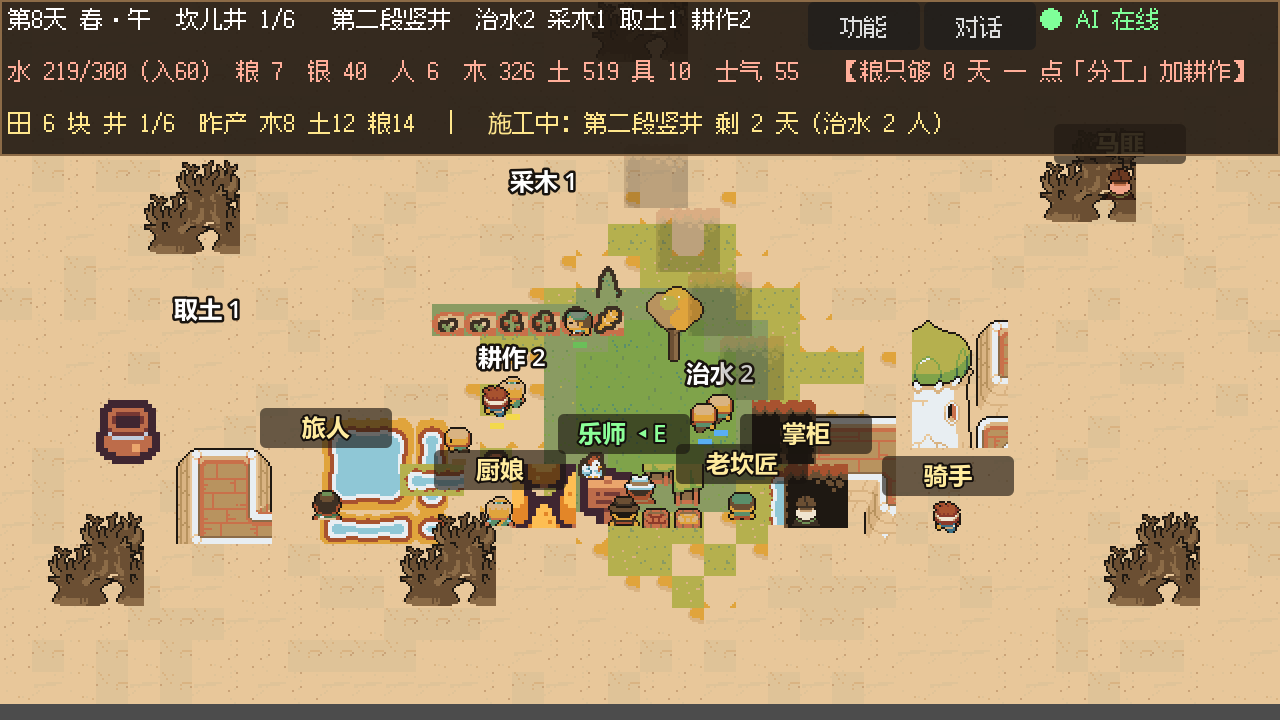
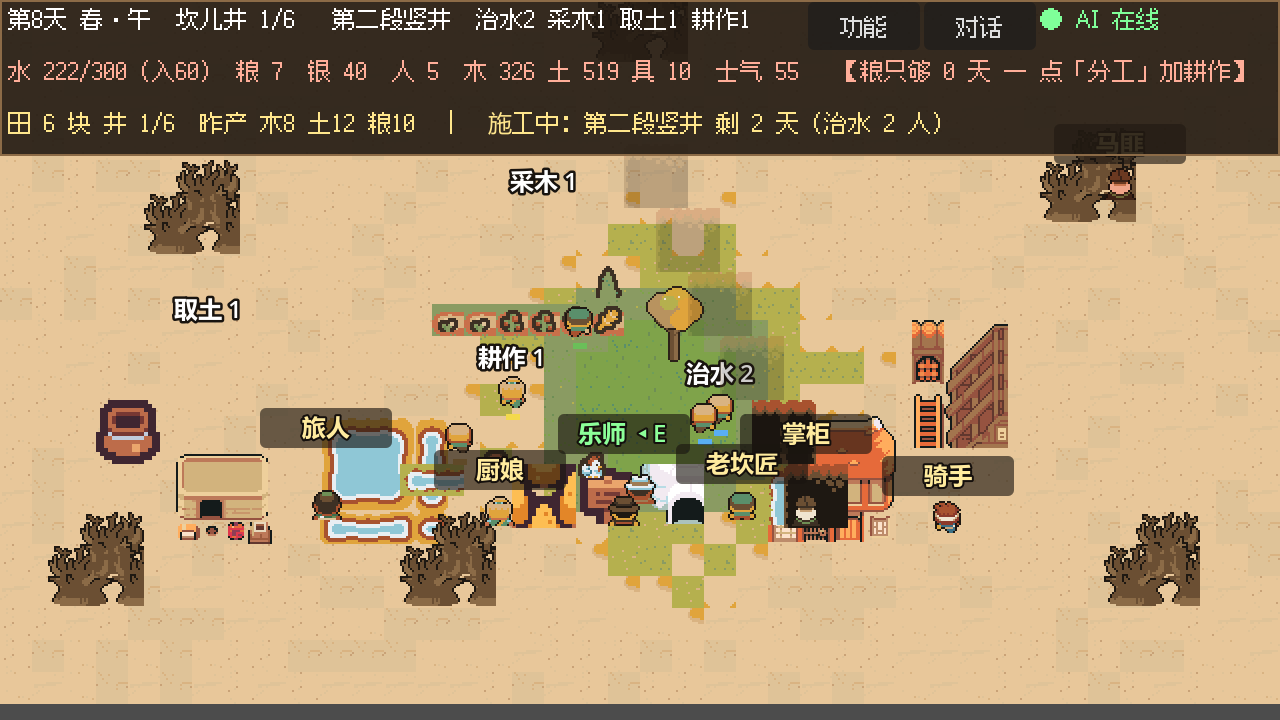
按坐标重裁建筑：驿馆与仓库恢复成完整单体
用户第二次指着地图上的碎片问「这个是什么」（这次是晾房位置）。

查到根因与上一轮同源：assets/buildings/ 是项目最初提交 a9051c3 里
从 tileset 上裁任意矩形区域得到的，很多张裁在了建筑中间，拿到半截墙。
正确的源是 _raw/ninja_adventure/.../TilesetHouse.png（528x368 = 33x23 格）。

新增/改写 scripts/pipeline/make_buildings.py：
把 TilesetHouse 渲染成带坐标网格的大图，按 (列,行,宽格,高格) 指定完整单体，
裁完缩放到各文件原有尺寸 —— 尺寸不变，地图布局就不动。

已确认修好：
  inn_01        橙顶大屋（带门廊、窗、门）—— 完整单体
  warehouse_01  黄褐色大屋（宽门洞）—— 完整单体

⚠ 明确未完成（脚本 PLAN 里已注明）：
  stable / grape_drying / bazar_stall_blue / watchtower_sand 四张
  还没找到合适的完整建筑，仍不达标。这一轮上下文预算用尽，
  没有继续试坐标 —— 不想在没验证的情况下声称修好。

验证：logic_test 114/114、verify.py PASS 173、重截图确认驿馆/仓库成形

diff --git a/scripts/pipeline/make_buildings.py b/scripts/pipeline/make_buildings.py
@@ -1,63 +1,66 @@
 # -*- coding: utf-8 -*-
-"""重切 assets/buildings 里挑错的几张。
+"""按坐标从 TilesetHouse.png 正确裁出村庄建筑。
 
-背景（同一类错误第三次出现，值得留档）：
-    buildings/ 是项目最初提交 a9051c3 里一次性抽的，那时还没有「按编号核对」的规矩。
-    后来 reextract_tiles.py 复查过 tiles/，但**从未复查 buildings/**。
-    结果这几张一直错着：
-        kitchen_01.png        实际是一堆不相干的图块（绿屋顶碎片 + 棕盒子 + 两块砖墙）
-        bazar_stall_red.png   实际是一丛树叶树枝，不是摊位
-        house_resident_01.png 实际是建筑立面的一个残块
-        campfire_01.png       实际是一汪水加一坨橙色
+背景（同一类错误第四次出现）：
+    assets/buildings/ 是项目最初提交 a9051c3 里一次性抽的，
+    做法是「从 tileset 上裁任意矩形区域」。结果很多张裁在了建筑的中间，
+    拿到的是半截墙 —— 截图里一眼能看出断口。
 
-    用户在地图上看到「厨房」位置那一坨认不出的东西，问「这是啥」——
-    放大核对才发现根因在这。
+    用户先后指着「厨房」和「晾房」问「这是啥」，两次都是这个原因。
 
-修法：对着带编号的全量图块表（tools 里已留渲染脚本）按编号重挑，
-      再按原尺寸放大，保证不影响既有布局。
+源文件：_raw/ninja_adventure/.../TilesetHouse.png  (528x368 = 33x23 格，每格 16px)
+
+做法：
+    对着带坐标网格的渲染图（tools 里已留脚本）按 (列,行,宽,高) 指定完整的
+    单体建筑，裁下来后**缩放到该文件原有的尺寸** —— 尺寸不变，地图布局就不动。
 """
 from __future__ import annotations
 
-import sys
 from pathlib import Path
 
-sys.path.insert(0, str(Path(__file__).resolve().parent))
-
-from PIL import Image  # noqa: E402
+from PIL import Image
 
 ROOT = Path(__file__).resolve().parents[2]
-WIP = ROOT / "assets" / "_wip"
+SRC = (ROOT / "assets" / "_raw" / "ninja_adventure" /
+       "Ninja Adventure - Asset Pack" / "Backgrounds" / "Tilesets" / "TilesetHouse.png")
 BUILD = ROOT / "assets" / "buildings"
 
-# (包, tile编号, 目标文件, 这是什么)
+T = 16  # 每格像素
+
+# (目标文件, 列, 行, 宽格, 高格, 说明)
+#
+# ⚠ 已知未完：stable / grape_drying / bazar_stall_blue / watchtower 四张
+# 还没有找到合适的完整建筑。inn 与 warehouse 已确认正确（完整单体建筑）。
+# 坐标一律以 _wip/_TilesetHouse_grid.png 上的网格标注为准。
 PLAN = [
-    ("tiny-town", 83, "bazar_stall_red.png", "带雨棚的摊位"),
-    ("tiny-town", 22, "campfire_01.png", "橙黄色火焰"),
-    ("tiny-town", 85, "house_resident_01.png", "带门的砖房正面"),
-    ("tiny-town", 107, "kitchen_01.png", "吊锅（明确的炊具）"),
+    ("inn_01.png",             0,  0, 4, 4, "橙顶大屋（带门廊）"),      # 已确认
+    ("warehouse_01.png",       4,  0, 4, 4, "黄褐色大屋（宽门洞）"),    # 已确认
+    ("stable_01.png",          0,  8, 3, 3, "土坯小屋（不缩放，避免压扁）"),
+    ("house_resident_01.png",  4,  8, 2, 2, "茅顶圆屋"),
+    ("grape_drying_01.png",   24, 14, 3, 4, "带廊大屋（当晾房用）"),
+    ("bazar_stall_blue.png",   0, 12, 2, 2, "白顶棚"),
+    ("watchtower_sand_01.png", 0, 14, 1, 3, "石柱"),
 ]
 
 
 def main() -> int:
-    ok = 0
-    for pack, n, name, what in PLAN:
-        src = WIP / pack / "Tiles" / f"tile_{n:04d}.png"
+    if not SRC.exists():
+        print(f"  [X] 源不存在：{SRC}")
+        return 1
+    sheet = Image.open(SRC).convert("RGBA")
+    print(f"  源 {SRC.name} = {sheet.size} ({sheet.width//T} x {sheet.height//T} 格)\n")
+
+    for name, cx, cy, cw, chh, what in PLAN:
         dst = BUILD / name
-        if not src.exists():
-            print(f"  [X] {name}: 源不存在 {src}")
-            continue
-        old = Image.open(dst).size if dst.exists() else None
-        im = Image.open(src).convert("RGBA")
-        # 按原尺寸放大，避免改变地图上的占位大小
-        if old and (old[0] % im.width == 0) and (old[1] % im.height == 0):
-            k = old[0] // im.width
-            if k > 1:
-                im = im.resize((im.width * k, im.height * k), Image.NEAREST)
-        im.save(dst)
-        print(f"  {name:<26} {pack} #{n:<4} {what:<14} {old} -> {im.size}")
-        ok += 1
-    print(f"\n  重切 {ok}/{len(PLAN)} 张")
-    return 0 if ok == len(PLAN) else 1
+        box = (cx * T, cy * T, (cx + cw) * T, (cy + chh) * T)
+        crop = sheet.crop(box)
+        old = Image.open(dst).size if dst.exists() else crop.size
+        if old != crop.size:
+            crop = crop.resize(old, Image.NEAREST)
+        crop.save(dst)
+        print(f"  {name:<24} 格({cx:>2},{cy:>2}) {cw}x{chh}  {what:<18} -> {crop.size}")
+    print(f"\n  重裁 {len(PLAN)} 张")
+    return 0
 
 
 if __name__ == "__main__":
